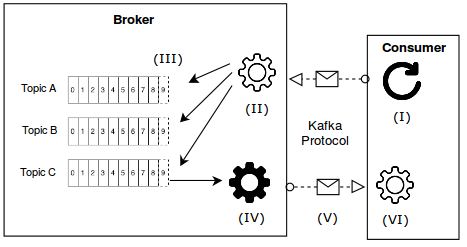
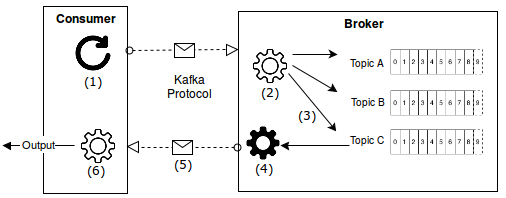
restructuring, start with protocol

Changed region(s): [[0.0, 0.0, 0.9893, 1.0], [0.6595, 0.8485, 0.7195, 0.9091]]

diff --git a/architecture.tex b/architecture.tex
@@ -2,6 +2,55 @@
 
 \section{Introduction}
 
+\section{Prototype}
+For demonstrating the architecture of this project we implement an architecture
+prototype which shows basic functionality of producing a message from a client A
+to persisting the message in a  topic specific log at the broker and in turn consuming it from another
+client B. It fully implements the produce and fetch request with their
+appropriate responses of the Kafka protocol for communication over network.
+Therefore the producer and consumer clients are compatible with original Apache
+Kafka broker.
+
+The functionality of the architecture prototype can be split in two cases.
+Case one covers producing a message and persisting in the brokers log:
+\begin{figure}[H]
+    \centering
+    \includegraphics[width=0.8\textwidth]{images/concept_producer.png}
+    \caption{Concept of Architecture Prototype Part I}
+    \label{fig:conept-producer}
+\end{figure}
+
+\begin{table}[h]
+\begin{tabular}{ll}
+1  & Packing input message in data structure                                                          \\
+2  & Serializing of data structure to byte string. The algorithm implements the Kafka protocol.       \\
+3 & Transmitting byte string via TCP socket over network                                             \\
+4  & Receiving and parsing byte string back to data structure                                         \\
+5   & Write Message into topic specific log. The resulting file has same structure than the Kafka Log has.
+\end{tabular}
+\end{table}
+
+Case two covers the part of consuming from a specific topic. Because Kafka works with 
+pull-based consumption, the consumer fetch its messages with a constantly requesting it. 
+
+\begin{figure}[H]
+    \centering
+   \includegraphics[width=0.7\textwidth]{images/concept_consumer.png}
+    \caption{Concept of Architecture Prototype Part II}
+    \label{fig:concept-consumer}
+\end{figure}
+
+\begin{table}[h]
+\begin{tabular}{ll}
+1  & Continuously send fetch request to broker implementing Kafka protocol \\
+2  & Parse fetch request to data structure                                 \\
+3  & Read messages from log of specified topic                             \\
+4  & Serialize messages as response into byte string.                      \\
+5  & Transmitting byte string back to consumer                             \\
+6  & Parse response from broker to get messages                           
+\end{tabular}
+\end{table}
+
 \section{Components}
 Basically, the architecture consists of two main components namely the broker and
 the client, whereas the client can act as producer or consumer. The broker is a
@@ -48,81 +97,116 @@ implementation.
 
 \begin{figure}[H]
     \centering
-    \includegraphics[width=0.6\textwidth]{images/architecture-components.png}
+    \includegraphics[width=0.55\textwidth]{images/architecture-components.png}
     \caption{Components of the architecture}
     \label{fig:architecture-components.png}
 \end{figure}
 
 \section{Protocol}
 \label{sec-protocol}
-\todo[inline]{allgemeine beschreibung und Aufbau der veschiedenen Requests }
+For communicating over network we implement a binary protocol based on tcp. The
+structure of the protocol is identical to the open sourced Apacke Kafka protocol
+version 0.8.x. \todo{ref}The protocol offers six different apis which each of it is
+defined with a request response message pair. The client initiates a socket connection and then
+writes a sequence of request messages and reads back the corresponding response
+message. 
 
-\section{Prototype}
-For demonstrating the architecture of this project we implement an architecture
-prototype which shows basic functionality of producing a message from a client A
-to persisting the message in a  topic specific log at the broker and in turn consuming it from another
-client B. It fully implements the produce and fetch request with their
-appropriate responses of the Kafka protocol for communication over network.
-Therefore the producer and consumer clients are compatible with original Apache
-Kafka broker.
-
-The functionality of the architecture prototype can be split in two cases.
-Case one covers producing a message and persisting in the brokers log:
-\begin{figure}[H]
-    \centering
-    \includegraphics[width=0.9\textwidth]{images/concept_producer.png}
-    \caption{Concept of Architecture Prototype Part I}
-    \label{fig:conept-producer}
-\end{figure}
+\subsection{Primitive Types}
+All messages are size delimited and are made up of the following primitive
+types: 
 
 \begin{table}[h]
-\begin{tabular}{ll}
-I   & Packing input message in data structure                                                          \\
-II  & Serializing of data structure to byte string. The algorithm implements the Kafka protocol.       \\
-III & Transmitting byte string via TCP socket over network                                             \\
-IV  & Receiving and parsing byte string back to data structure                                         \\
-V   & Write Message into topic specific log. The resulting file has same structure than the Kafka Log has.
+\begin{tabular}{| p{3cm}| p{7cm} | l |}
+\hline
+\textbf{Type} & \textbf{Description} & \textbf{Variations} \\ \hline
+Fixed Width Primitives     & Signed integers stored in big endian order.                                                                                                                                     & int8, int16, int32, int64 \\ \hline
+Variable Length Primitives & Consist of a signed integer giving a length N followed by N bytes of content. A length of -1 indicates null. String uses an int16 for its size, and bytes uses an int32.        & bytes, string             \\ \hline
+Arrays                     & Repeated structures. Always be encoded as an int32 size containing the length N followed by N,repetitions of the structure which can itself be made up of other,primitive types &                           \\ \hline
 \end{tabular}
 \end{table}
 
-Case two covers the part of consuming from a specific topic. Because Kafka works with 
-pull-based consumption, the consumer fetch its messages with a constantly requesting it. 
+\subsection{Common Message Format}
+The message as unit of transported data has the following common structure of a
+message set which is used for all api's which transport message data.
+Furthermore this format happens to be used both for the on-disk storage on the
+broker and the on-the-wire format.
 
 \begin{figure}[H]
     \centering
-   \includegraphics[width=0.6\textwidth]{images/concept_consumer.png}
-    \caption{Concept of Architecture Prototype Part II}
-    \label{fig:concept-consumer}
+    \includegraphics[width=0.7\textwidth]{images/protocol-messageSet.png}
+    \caption{Message Set format as common data structure}
+    \label{fig:protocol-request-header.png}
 \end{figure}
 
-\begin{table}[h]
-\begin{tabular}{ll}
-I   & Continuously send fetch request to broker implementing Kafka protocol \\
-II  & Parse fetch request to data structure                                 \\
-III & Read messages from log of specified topic                             \\
-IV  & Serialize messages as response into byte string.                      \\
-V   & Transmitting byte string back to consumer                             \\
-VI  & Parse response from broker to get messages                           
-\end{tabular}
-\end{table}
+\subsection{Common Request and Response Header}
+Each request and response has its same header fields independent for which api they are used. 
+The last part of the format (either request or response) is individual to the particular api which is used. 
+\begin{figure}[H]
+    \centering
+    \includegraphics[width=0.7\textwidth]{images/protocol-request-header.png}
+    \caption{Common Request Header}
+    \label{fig:protocol-request-header.png}
+\end{figure}
 
-\section{Modules}
+\begin{figure}[H]
+    \centering
+    \includegraphics[width=0.7\textwidth]{images/protocol-response-header.png}
+    \caption{Common Request Header}
+    \label{fig:protocol-response-header.png}
+\end{figure}
+
+\subsection{Metadata API}
+Describes the currently available brokers, their host and port information, and
+gives information about which broker hosts which partitions.
+
+\textbf{Not implemented yet}
+
+\subsection{Produce API}
+Send messages to the broker.
+
+\textbf{Not implemented yet}
+
+\subsection{Fetch API}
+Fetchs / Consumes messages from the broker.
+\subsection{Offset API}
+Get information about the available offsets for a given topic partition
+
+\textbf{Not implemented yet}
+
+\subsection{Offset Commit API}
+Commit a set of offsets for a consumer group
+
+\textbf{Not implemented yet}
+
+\subsection{Offset Commit API}
+Fetch a set of offsets for a consumer group
+
+\textbf{Not implemented yet}
+
+\section{Packages, Modules and Dependencies}
+\todo[inline]{how did we structure the executables ans libraries}
+
 The application has three main parts namely the broker, protocol implementation
 and the client api. 
 %Each part is built in its own self-contained cabal package.
 
 \begin{figure}[H]
     \centering
-   \includegraphics[width=0.85\textwidth]{images/logical-architecture.png}
+   \includegraphics[width=0.7\textwidth]{images/logical-architecture.png}
     \caption{Package structure and dependencies}
     \label{fig:logical-architecture}
 \end{figure}
 
-\subsection{Protocol}
+\subsection{Protocol Implementation}
 \todo[inline]{Encode / Decode / Types }
 
 \subsection{Client (API)}
- 
+
+\section{Error Handling}
+
+\section{Testing}
+hspec 
+
 \section{Client Examples}
 This example shows a very basic console client which either can act as producer
 by sending a producer request or as a consumer by sending a fetch request. After
@@ -168,10 +252,5 @@ can decode it with the API function decodePrResponse.
 Consumer: Send a fetch request with given offset to the broker. Analog to the producer request 
 the api function packFtRqMessage packs the input into a protocol conform fetch request and sendRequest passes it via socket to the broker. 
 \todo{code not final yet}
-\section{Error
-Handling}
-
-\section{Testing}
-hspec 
 
 
